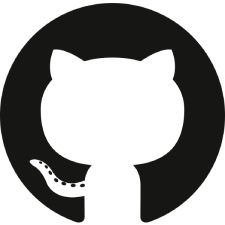
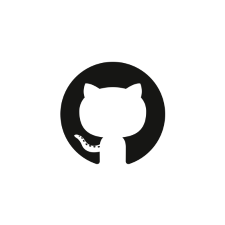
Updated github image

diff --git a/_includes/projects/project-card.html b/_includes/projects/project-card.html
@@ -1,7 +1,7 @@
 <div class="card mb-3">
   <div class="row g-0 justify-content-center">
     <div class="col-sm-auto col-md-auto">
-      <img src="{{ site.baseurl }}/{{ include.page.image }}" height="225px" class="rounded-start">
+      <img src="{{ site.baseurl }}/{{ include.page.image }}" height="225px" class="rounded-start bg-dark bg-gradient">
     </div>
     <div class="col-sm-6 col-md-8">
       <div class="card-body">
